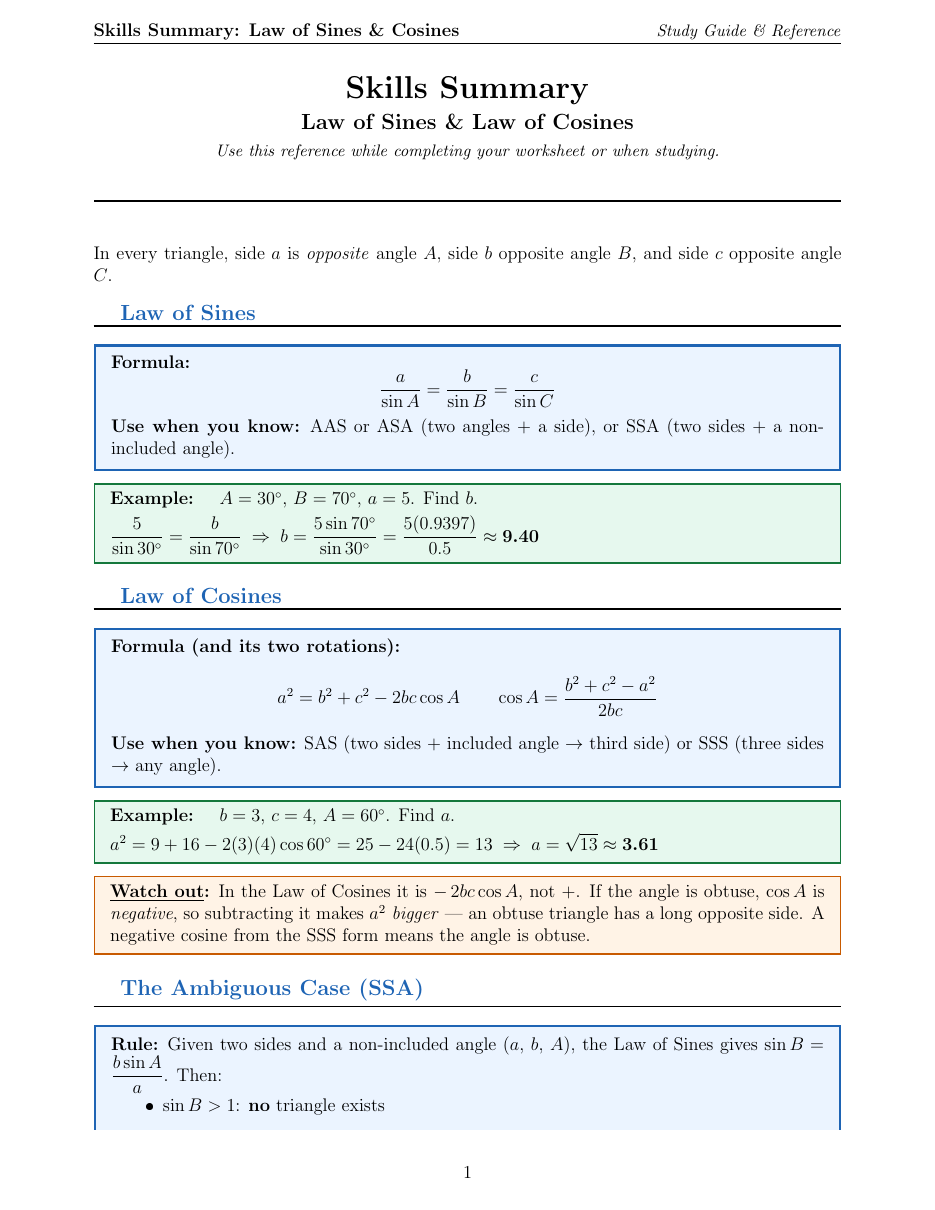
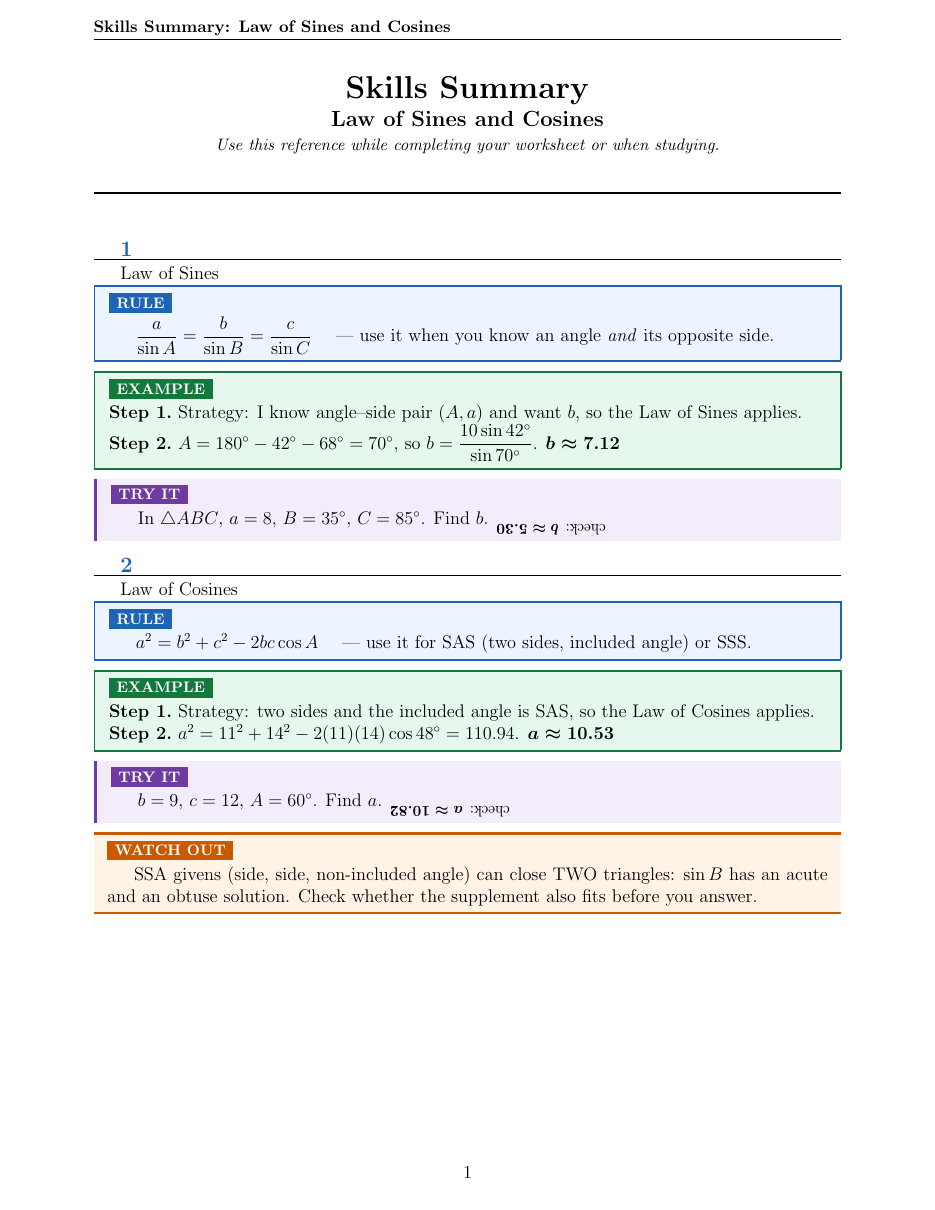
Release packaging: downloads carry the skill, clones carry the evidence
The repository is two things at once: a ~2 MB skill and a ~286 MB evidence
base (the eval system plus three judged runs — 9,699 files of verdicts,
observations and PDFs the README's claims cite). A user downloading the skill
was getting both. Now:

- .gitattributes marks evals/ export-ignore, so GitHub's Download ZIP and
  release source tarballs shrink from 286 MB / 10,610 files to
  2.3 MB / 234 files (measured with git archive --worktree-attributes).
  Clones are untouched on purpose: a claim whose evidence is unfetchable is
  an assertion, so the corpus stays in the repo.
- README gains a "Get the skill" section: the lean ZIP, a sparse-checkout
  recipe for lean clones, and the full-clone route, each saying what it is
  for.
- Sample images regenerated from a fresh v3.6 build, because the answer-key
  screenshot showed the pre-v3.6 layout — the one screenshot most likely to
  be believed over the code. The new set is a law-of-sines/cosines sheet with
  renderer-drawn figures; page 1 of the key shows Quick Answers up top with
  the spadesuit visible on the hand-judged part, and a fourth sample shows
  the new final summary page. The build fought back correctly while making
  them: the verifier rejected all four of my hand-computed answers (off by
  0.01-0.23), the figure-scope gate refused a figure-less explain problem
  beside four valued figures (folded into problem 4 as part (b), the pattern
  SKILL.md teaches), and render_meta refused conflicting difficulty tags on
[…]

diff --git a/README.md b/README.md
@@ -13,9 +13,21 @@
 | Worksheet | Answer key | Skills summary |
 |:---:|:---:|:---:|
 | [<img src="docs/samples/worksheet_geometry-1.png" width="250">](docs/samples/worksheet_geometry-1.png) | [<img src="docs/samples/answerkey_geometry-1.png" width="250">](docs/samples/answerkey_geometry-1.png) | [<img src="docs/samples/skills_summary-1.png" width="250">](docs/samples/skills_summary-1.png) |
-| To-scale figures, work space, ramped difficulty | Step-by-step solutions, boxed answers | Formula boxes + worked mini-examples |
+| To-scale figures, work space, ramped difficulty | Quick Answers up top, worked solutions, ♠ for hand-judged items | Formula boxes + worked mini-examples |
 
-*Real, unretouched output. The `read_data` type even renders data charts from the same numbers it verifies:* [data-handling worksheet →](docs/samples/worksheet_data-1.png)
+*Real, unretouched output, rebuilt with every layout change. The key's verification and curriculum metadata live on [a final summary page of their own →](docs/samples/answerkey_summary_page.png), and the `read_data` type renders data charts from the same numbers it verifies: [data-handling worksheet →](docs/samples/worksheet_data-1.png)*
+
+## Get the skill (without the 286 MB of evidence)
+
+This repository carries its own eval system and three fully judged eval runs — 9,699 files of verdicts, observations, and judged PDFs. That is the **evidence** behind the claims below, and it stays in the repo so every number remains checkable. It is not the **product**, so downloads exclude it automatically:
+
+- **[Download ZIP](../../archive/refs/heads/main.zip) or a [release](../../releases) tarball** — ~2 MB, ~230 files: `SKILL.md`, `scripts/`, `templates/`, `references/`, `tests/`, and the docs. `.gitattributes` `export-ignore` keeps the eval corpus out of every archive GitHub serves.
+- **Clone, skill only** — sparse checkout skips the corpus while keeping history:
+  ```bash
+  git clone --filter=blob:none --sparse <repo-url> && cd math-worksheets-skill
+  git sparse-checkout set --no-cone '/*' '!evals'
+  ```
+- **Full clone** — `git clone` as usual when you want the eval system, the retained runs, and the analyses they feed.
 
 Works with any AI agent that can read files and run shell commands — **Claude Code**, **Gemini**, **Codex**, **OpenClaw** — via the standard `SKILL.md` format, with portable fallbacks for every platform-specific step.
 
@@ -249,6 +261,7 @@ CI runs everything on every push. For deeper validation, the corpus evals check 
 ## Changelog
 
 ### v3.6.0 — 2026-08-08
+- **Downloads are 2 MB, not 286 MB.** `.gitattributes` marks `evals/` `export-ignore`, so GitHub's Download ZIP and release tarballs carry the skill (~230 files) without the retained eval corpus (9,699 files) — while clones keep the full evidence base. The README's new *Get the skill* section gives the sparse-checkout recipe for lean clones. Sample images are regenerated from a fresh v3.6 build, so the screenshots show the layout the code actually produces (including the new [final summary page](docs/samples/answerkey_summary_page.png)); the SSA watch-out on the study-guide sample is the very ambiguity problem 4 of the worksheet sample teaches.
 - **The answer key reads the way a grader uses it: header, Quick Answers, worked solutions — and a final page of its own for the metadata.** The verification note, curriculum block, and common-wrong-answers table now claim the key's LAST page via `\AtEndDocument{\clearpage...}` emitted by the generated bank, so the `ak_` author writes nothing extra and the one-`\input` contract is untouched. Previously all three sat between the bank and the first worked solution, pushing the actual answers a page down on busy sheets.
 - **The hand-judged mark is now `$\spadesuit$`.** The old `---` sat one glyph from a minus sign — the exact neighbourhood a maths key crowds — and read as "nothing here". A card suit appears nowhere else in these documents, so it carries one meaning, and the summary-page legend states it. The eval harness's bank cross-check recognises both generations (♠ on current sheets, the em dash on retained pre-v3.6 runs), because the corpus is a history, not a snapshot.
 - **Answer keys breathe; worksheets stay measured.** `\akheader` now switches on rubber inter-problem space (0.5cm stretching toward a full centimetre), `\raggedbottom`, a small flexible `\parskip`, and 2pt between bank rows. The worksheet keeps its fixed layout deliberately — work space there is a per-problem measurement the page budget charges for, and stretch would be the budget lying. The ak page ceiling gains the +1 page the summary now occupies.
